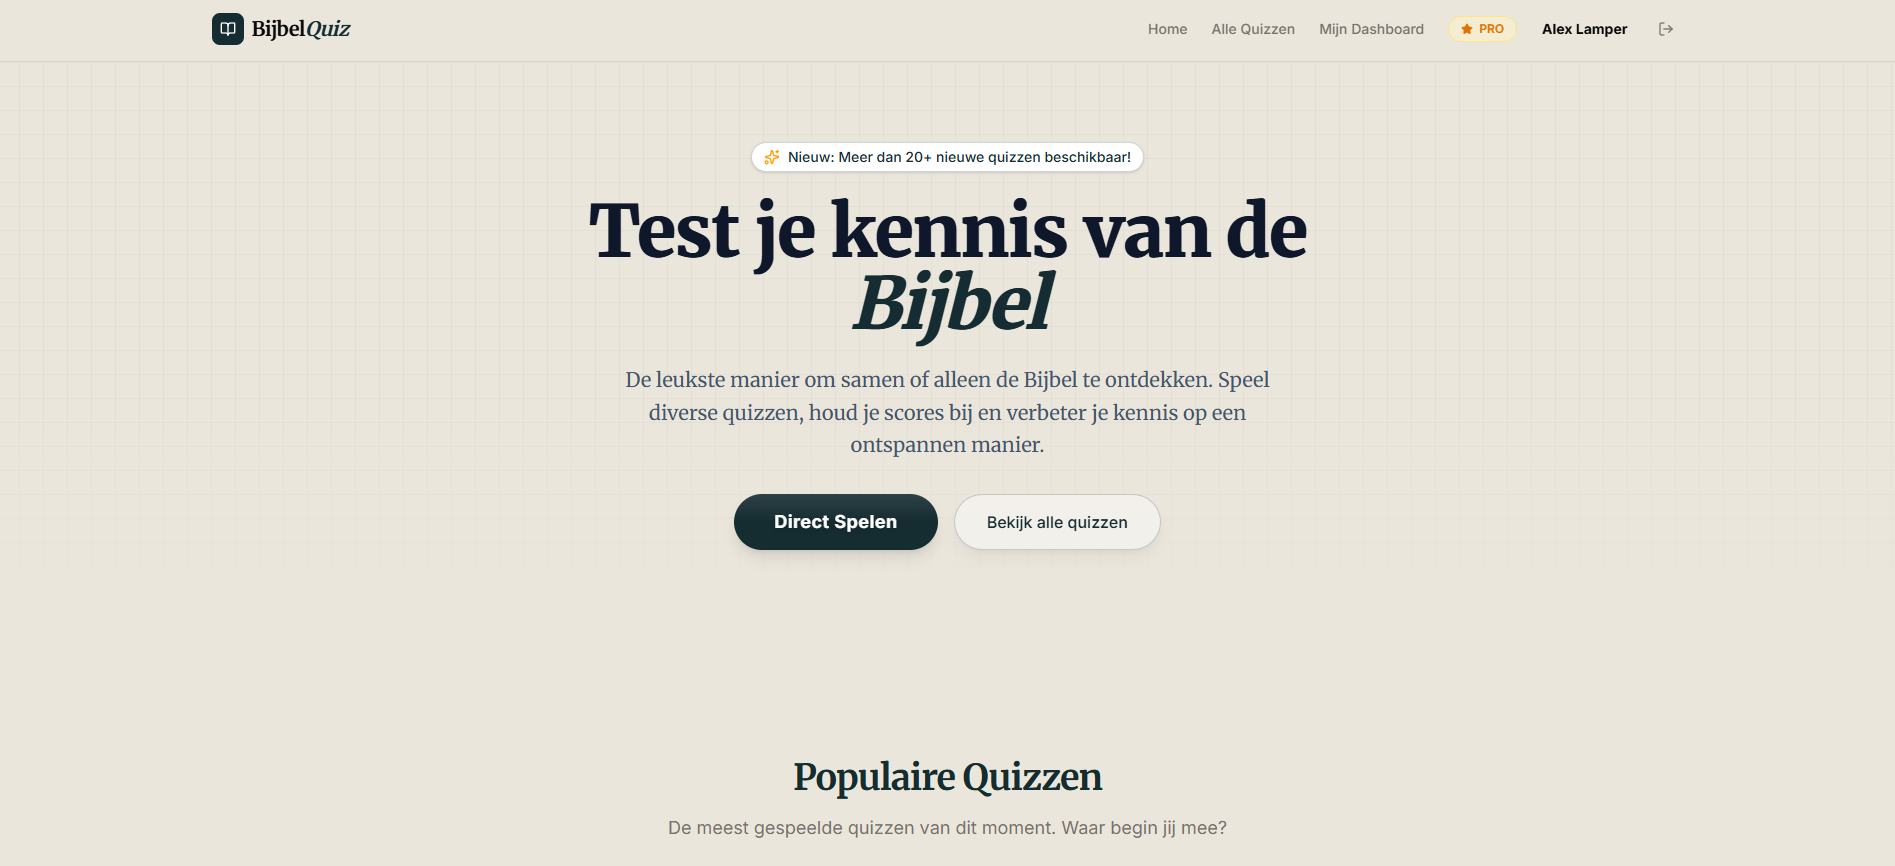
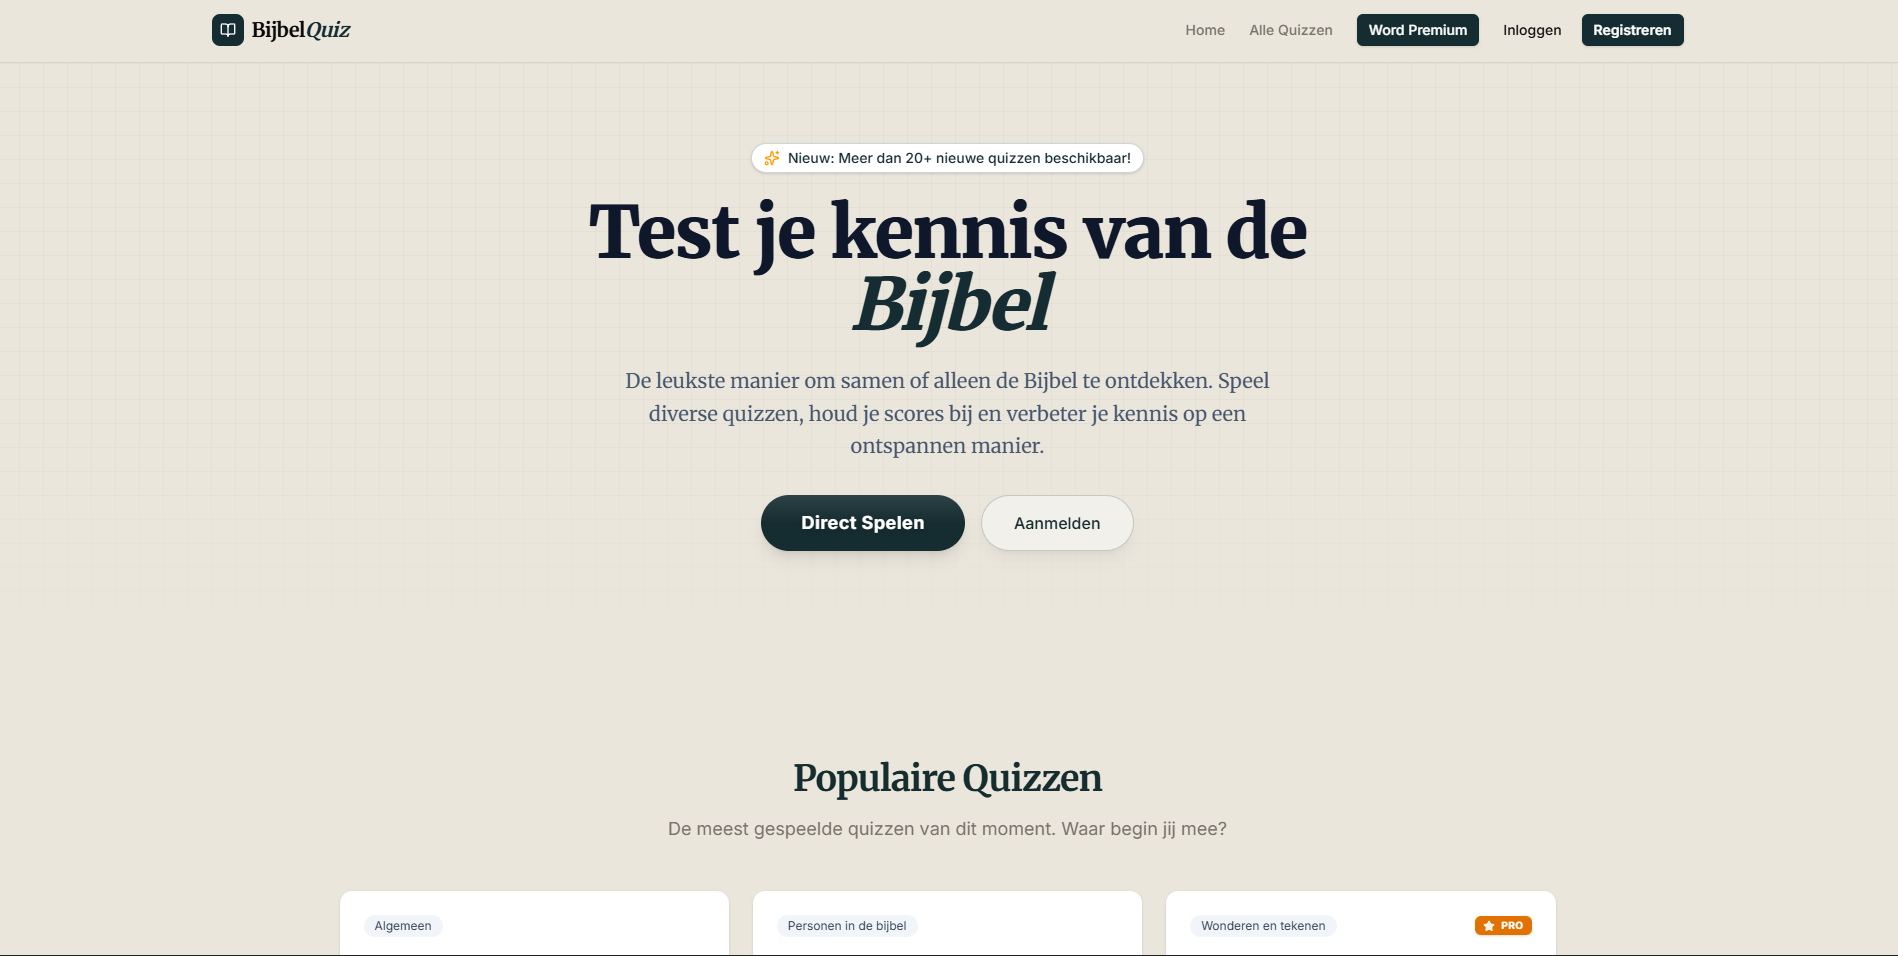
resolved hydration error, updated hero image (readme) & updated styling

diff --git a/src/app/register/page.tsx b/src/app/register/page.tsx
@@ -5,7 +5,7 @@ import { useRouter, useSearchParams } from 'next/navigation';
 import { Button } from '@/components/ui/button';
 import { Card, CardContent, CardDescription, CardFooter, CardHeader, CardTitle } from '@/components/ui/card';
 import Link from 'next/link';
-import { BookOpen, AlertCircle, Loader2 } from 'lucide-react';
+import { BookOpen, AlertCircle, Loader2, Eye, EyeOff } from 'lucide-react';
 
 function RegisterContent() {
   const router = useRouter();
@@ -15,6 +15,7 @@ function RegisterContent() {
   const [name, setName] = useState('');
   const [email, setEmail] = useState('');
   const [password, setPassword] = useState('');
+  const [showPassword, setShowPassword] = useState(false);
   const [error, setError] = useState('');
   const [loading, setLoading] = useState(false);
 
@@ -82,7 +83,7 @@ function RegisterContent() {
                   id="name"
                   type="text"
                   placeholder="Volledige naam"
-                  className="flex h-10 w-full rounded-md border border-input bg-background px-3 py-2 text-sm ring-offset-background file:border-0 file:bg-transparent file:text-sm file:font-medium placeholder:text-muted-foreground focus-visible:outline-none focus-visible:ring-2 focus-visible:ring-primary focus-visible:ring-offset-2 disabled:cursor-not-allowed disabled:opacity-50 transition-all"
+                  className="flex h-11 w-full rounded-xl border border-slate-200 bg-slate-50 px-3 py-2 text-sm placeholder:text-slate-400 focus:bg-white focus:border-primary focus:outline-none focus:ring-4 focus:ring-primary/10 disabled:cursor-not-allowed disabled:opacity-50 transition-all duration-200"
                   value={name}
                   onChange={(e) => setName(e.target.value)}
                   required
@@ -94,7 +95,7 @@ function RegisterContent() {
                   id="email"
                   type="email"
                   placeholder="naam@voorbeeld.nl"
-                  className="flex h-10 w-full rounded-md border border-input bg-background px-3 py-2 text-sm ring-offset-background file:border-0 file:bg-transparent file:text-sm file:font-medium placeholder:text-muted-foreground focus-visible:outline-none focus-visible:ring-2 focus-visible:ring-primary focus-visible:ring-offset-2 disabled:cursor-not-allowed disabled:opacity-50 transition-all"
+                  className="flex h-11 w-full rounded-xl border border-slate-200 bg-slate-50 px-3 py-2 text-sm placeholder:text-slate-400 focus:bg-white focus:border-primary focus:outline-none focus:ring-4 focus:ring-primary/10 disabled:cursor-not-allowed disabled:opacity-50 transition-all duration-200"
                   value={email}
                   onChange={(e) => setEmail(e.target.value)}
                   required
@@ -102,16 +103,29 @@ function RegisterContent() {
               </div>
               <div className="grid gap-2">
                 <label htmlFor="password" title="Wachtwoord" className="text-sm font-medium leading-none">Wachtwoord</label>
-                <input
-                  id="password"
-                  type="password"
-                  placeholder="Minimaal 6 tekens"
-                  className="flex h-10 w-full rounded-md border border-input bg-background px-3 py-2 text-sm ring-offset-background file:border-0 file:bg-transparent file:text-sm file:font-medium placeholder:text-muted-foreground focus-visible:outline-none focus-visible:ring-2 focus-visible:ring-primary focus-visible:ring-offset-2 disabled:cursor-not-allowed disabled:opacity-50 transition-all"
-                  value={password}
-                  onChange={(e) => setPassword(e.target.value)}
-                  minLength={6}
-                  required
-                />
+                <div className="relative">
+                  <input
+                    id="password"
+                    type={showPassword ? "text" : "password"}
+                    placeholder="Minimaal 6 tekens"
+                    className="flex h-11 w-full rounded-xl border border-slate-200 bg-slate-50 px-3 py-2 text-sm placeholder:text-slate-400 focus:bg-white focus:border-primary focus:outline-none focus:ring-4 focus:ring-primary/10 disabled:cursor-not-allowed disabled:opacity-50 transition-all duration-200 pr-10"
+                    value={password}
+                    onChange={(e) => setPassword(e.target.value)}
+                    minLength={6}
+                    required
+                  />
+                  <button
+                    type="button"
+                    onClick={() => setShowPassword(!showPassword)}
+                    className="absolute right-3 top-1/2 -translate-y-1/2 text-slate-500 hover:text-slate-700 focus:outline-none"
+                  >
+                    {showPassword ? (
+                      <EyeOff className="h-4 w-4" />
+                    ) : (
+                      <Eye className="h-4 w-4" />
+                    )}
+                  </button>
+                </div>
               </div>
               
               <Button type="submit" className="w-full mt-2 h-11 text-base shadow-lg shadow-primary/20" disabled={loading}>

diff --git a/src/app/login/page.tsx b/src/app/login/page.tsx
@@ -6,7 +6,7 @@ import { Card, CardContent, CardDescription, CardFooter, CardHeader, CardTitle }
 import { useSearchParams, useRouter } from 'next/navigation';
 import { Suspense, useState } from 'react';
 import Link from 'next/link';
-import { BookOpen, CheckCircle2, Loader2, Mail } from 'lucide-react';
+import { BookOpen, CheckCircle2, Loader2, Eye, EyeOff } from 'lucide-react';
 
 function LoginContent() {
   const searchParams = useSearchParams();
@@ -15,6 +15,7 @@ function LoginContent() {
   
   const [email, setEmail] = useState('');
   const [password, setPassword] = useState('');
+  const [showPassword, setShowPassword] = useState(false);
   const [error, setError] = useState('');
   const [loading, setLoading] = useState(false);
 
@@ -118,7 +119,7 @@ function LoginContent() {
                   id="email"
                   type="email"
                   placeholder="naam@voorbeeld.nl"
-                  className="flex h-10 w-full rounded-md border border-input bg-background px-3 py-2 text-sm ring-offset-background file:border-0 file:bg-transparent file:text-sm file:font-medium placeholder:text-muted-foreground focus-visible:outline-none focus-visible:ring-2 focus-visible:ring-primary focus-visible:ring-offset-2 disabled:cursor-not-allowed disabled:opacity-50 transition-all"
+                  className="flex h-11 w-full rounded-xl border border-slate-200 bg-slate-50 px-3 py-2 text-sm placeholder:text-slate-400 focus:bg-white focus:border-primary focus:outline-none focus:ring-4 focus:ring-primary/10 disabled:cursor-not-allowed disabled:opacity-50 transition-all duration-200"
                   value={email}
                   onChange={(e) => setEmail(e.target.value)}
                   required
@@ -130,14 +131,27 @@ function LoginContent() {
                     Wachtwoord
                     </label>
                 </div>
-                <input
-                  id="password"
-                  type="password"
-                  className="flex h-10 w-full rounded-md border border-input bg-background px-3 py-2 text-sm ring-offset-background file:border-0 file:bg-transparent file:text-sm file:font-medium placeholder:text-muted-foreground focus-visible:outline-none focus-visible:ring-2 focus-visible:ring-primary focus-visible:ring-offset-2 disabled:cursor-not-allowed disabled:opacity-50 transition-all"
-                  value={password}
-                  onChange={(e) => setPassword(e.target.value)}
-                  required
-                />
+                <div className="relative">
+                  <input
+                    id="password"
+                    type={showPassword ? "text" : "password"}
+                    className="flex h-11 w-full rounded-xl border border-slate-200 bg-slate-50 px-3 py-2 text-sm placeholder:text-slate-400 focus:bg-white focus:border-primary focus:outline-none focus:ring-4 focus:ring-primary/10 disabled:cursor-not-allowed disabled:opacity-50 transition-all duration-200 pr-10"
+                    value={password}
+                    onChange={(e) => setPassword(e.target.value)}
+                    required
+                  />
+                  <button
+                    type="button"
+                    onClick={() => setShowPassword(!showPassword)}
+                    className="absolute right-3 top-1/2 -translate-y-1/2 text-slate-500 hover:text-slate-700 focus:outline-none"
+                  >
+                    {showPassword ? (
+                      <EyeOff className="h-4 w-4" />
+                    ) : (
+                      <Eye className="h-4 w-4" />
+                    )}
+                  </button>
+                </div>
               </div>
               
               <Button type="submit" className="w-full mt-2 h-11 text-base shadow-lg shadow-primary/20" disabled={loading}>

diff --git a/src/components/Navbar.tsx b/src/components/Navbar.tsx
@@ -67,11 +67,14 @@ export default function Navbar() {
               <div className="h-8 w-8 animate-pulse rounded-full bg-muted" />
             ) : (
               <div className="flex items-center gap-2">
-                <Link href="/login">
+                <Link href="/login" className="hidden sm:block">
                   <Button variant="ghost" size="sm" className="font-medium">Inloggen</Button>
                 </Link>
-                <Link href="/register">
+                <Link href="/register" className="hidden sm:block">
                   <Button size="sm" className="font-semibold shadow-sm">Registreren</Button>
+                </Link>
+                <Link href="/login" className="sm:hidden">
+                  <Button size="sm" className="font-semibold shadow-sm">Aanmelden</Button>
                 </Link>
               </div>
             )}
@@ -91,13 +94,11 @@ export default function Navbar() {
       {isMobileMenuOpen && (
         <div className="md:hidden border-t border-primary/10 bg-[#eae6db] px-4 py-6 shadow-lg animate-in slide-in-from-top-2 absolute top-16 left-0 w-full h-[calc(100vh-4rem)] overflow-y-auto z-[99]">
             <div className="flex flex-col space-y-2">
-                <Link href="/" onClick={() => setIsMobileMenuOpen(false)} className="group flex items-center justify-between px-4 py-3 bg-white border border-slate-200 shadow-sm rounded-xl font-medium text-slate-700 active:scale-[0.99] transition-all hover:border-primary/20 hover:shadow-md">
+                <Link href="/" onClick={() => setIsMobileMenuOpen(false)} className="group flex items-center px-2 py-2 font-medium text-lg text-slate-700 hover:text-primary transition-colors">
                     Home
-                    <ChevronRight className="h-4 w-4 text-slate-400 group-hover:text-primary transition-colors" />
                 </Link>
-                <Link href="/quizzes" onClick={() => setIsMobileMenuOpen(false)} className="group flex items-center justify-between px-4 py-3 bg-white border border-slate-200 shadow-sm rounded-xl font-medium text-slate-700 active:scale-[0.99] transition-all hover:border-primary/20 hover:shadow-md">
+                <Link href="/quizzes" onClick={() => setIsMobileMenuOpen(false)} className="group flex items-center px-2 py-2 font-medium text-lg text-slate-700 hover:text-primary transition-colors">
                     Alle Quizzen
-                    <ChevronRight className="h-4 w-4 text-slate-400 group-hover:text-primary transition-colors" />
                 </Link>
                 {session && (
                     <Link href="/dashboard" onClick={() => setIsMobileMenuOpen(false)} className="group flex items-center justify-between px-4 py-3 bg-white border border-slate-200 shadow-sm rounded-xl font-medium text-slate-700 active:scale-[0.99] transition-all hover:border-primary/20 hover:shadow-md">

diff --git a/src/components/ui/button.tsx b/src/components/ui/button.tsx
@@ -54,6 +54,7 @@ function Button({
       data-variant={variant}
       data-size={size}
       className={cn(buttonVariants({ variant, size, className }))}
+      suppressHydrationWarning
       {...props}
     />
   )
